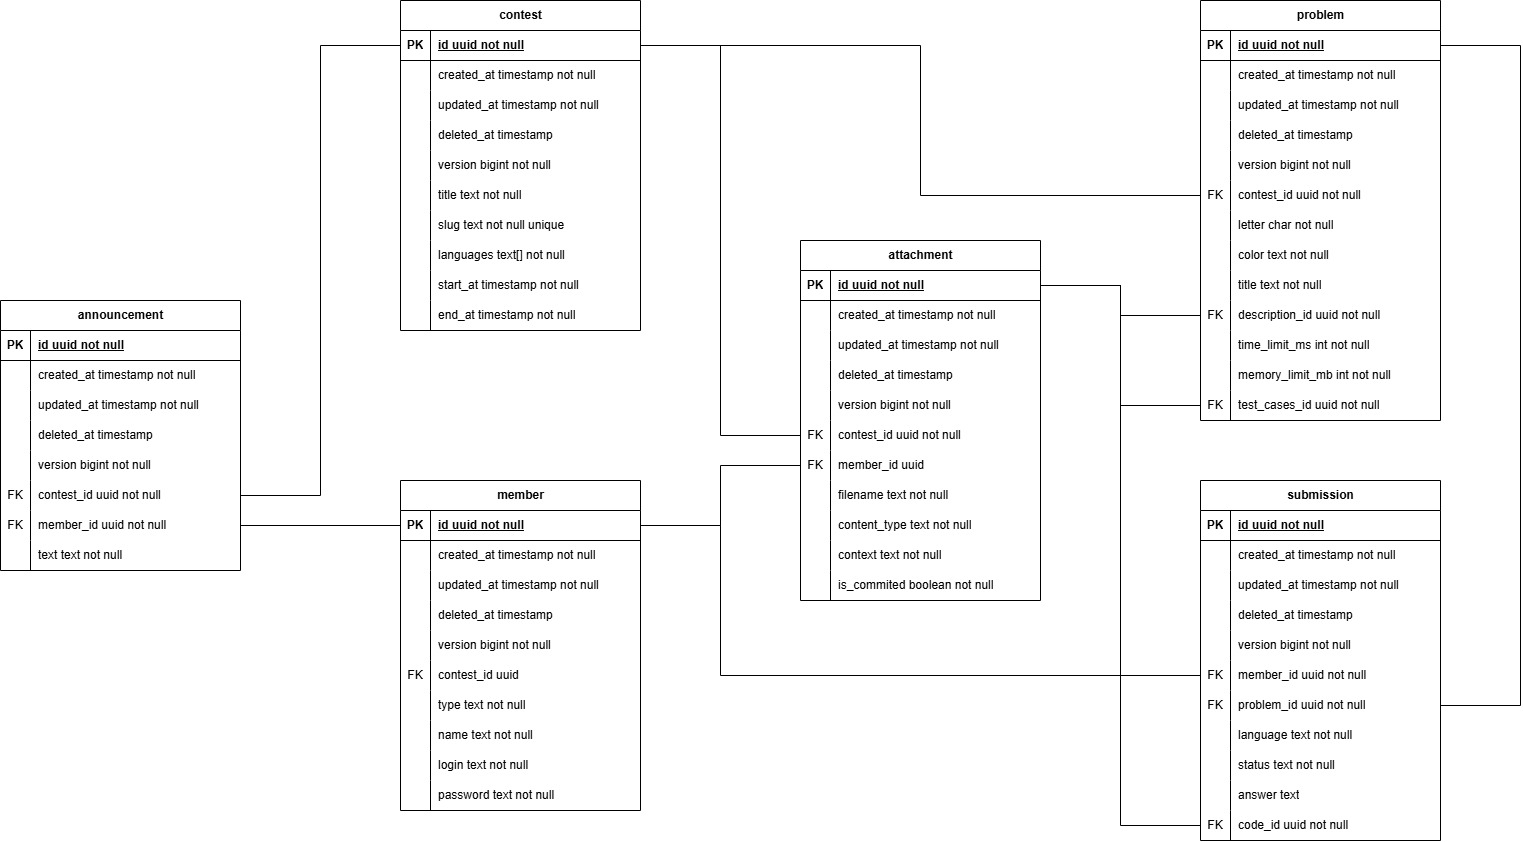
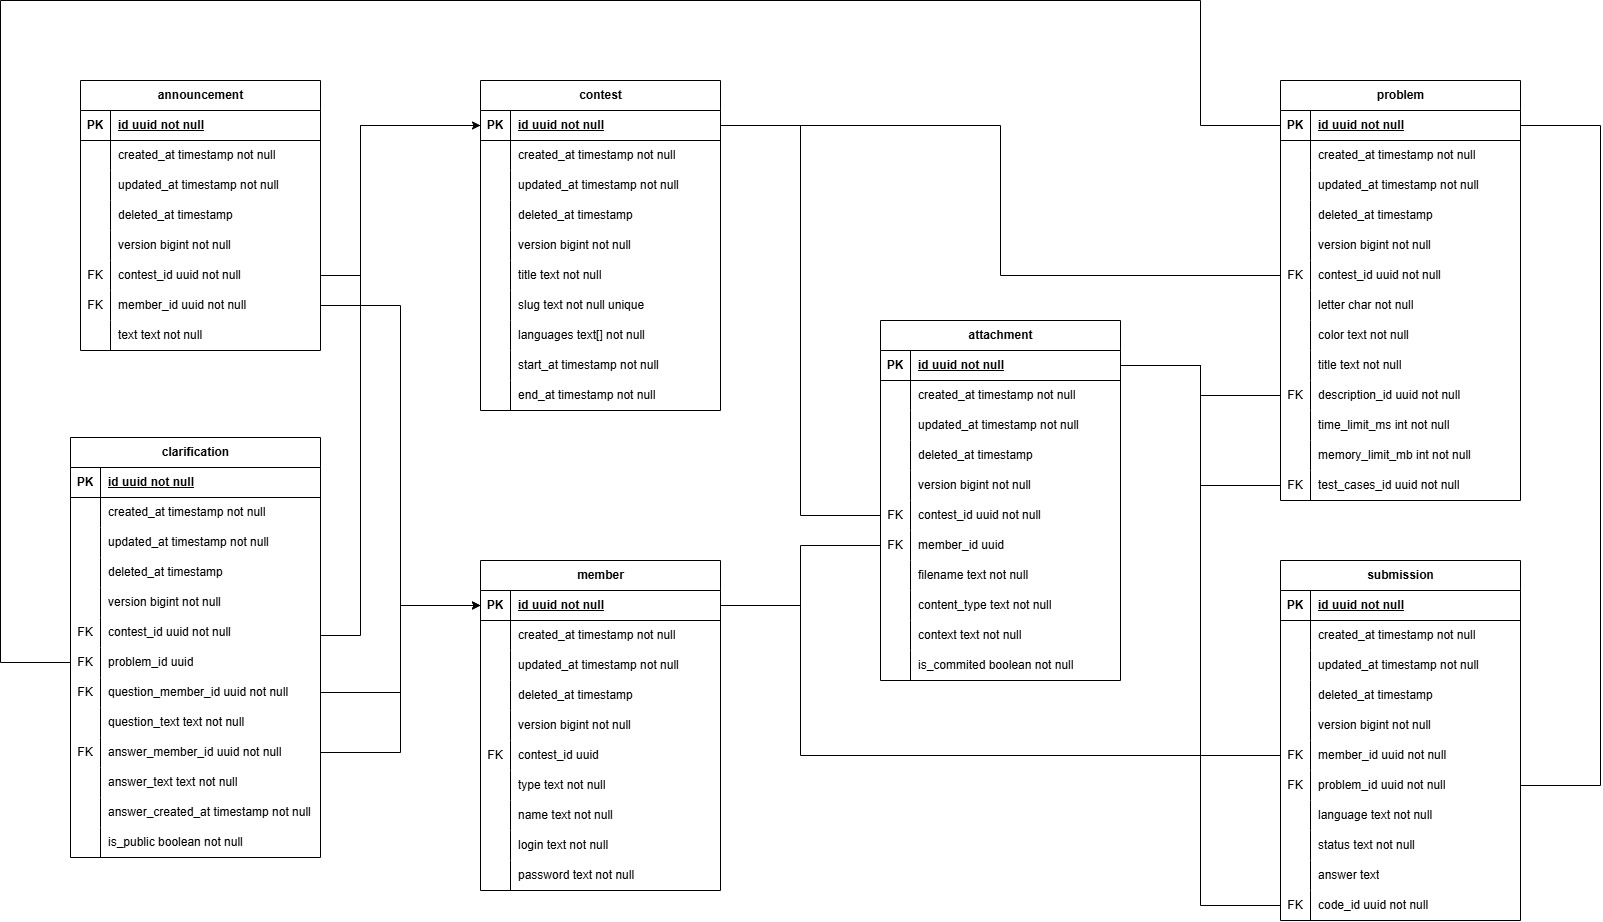
update documentation

diff --git a/documentation/docs/database.md b/documentation/docs/database.md
@@ -92,7 +92,7 @@ Forseti uses a PostgreSQL database to store its core data. The database schema i
 - `max_peak_memory_kb`: The maximum peak memory used by the execution in kilobytes.
 - `details_id`: The UUIDv7 of the details attachment associated with the execution.
 
-### announcements
+### announcement
 
 - `id`: A unique UUIDv7 identifying the announcement.
 - `created_at`: The timestamp when the announcement was created.
@@ -102,6 +102,22 @@ Forseti uses a PostgreSQL database to store its core data. The database schema i
 - `contest_id`: The UUIDv7 of the contest the announcement is associated with.
 - `member_id`: The UUIDv7 of the member who created the announcement.
 - `text`: The text content of the announcement.
+
+### clarification
+
+- `id`: A unique UUIDv7 identifying the clarification.
+- `created_at`: The timestamp when the clarification was created.
+- `updated_at`: The timestamp when the clarification was last updated.
+- `deleted_at`: The timestamp when the clarification was deleted, if applicable.
+- `version`: The version number of the clarification record, used for optimistic locking.
+- `contest_id`: The UUIDv7 of the contest the clarification is associated with.
+- `problem_id`: The UUIDv7 of the problem the clarification is related to, if applicable.
+- `question_member_id`: The UUIDv7 of the member who asked the clarification question.
+- `question_text`: The text content of the clarification question.
+- `answer_member_id`: The UUIDv7 of the member who provided the answer to the clarification, if applicable.
+- `answer_text`: The text content of the answer to the clarification, if applicable.
+- `answer_created_at`: The timestamp when the answer to the clarification was created, if applicable.
+- `is_public`: A boolean indicating whether the clarification is public.
 
 ## Audit Tables
 
